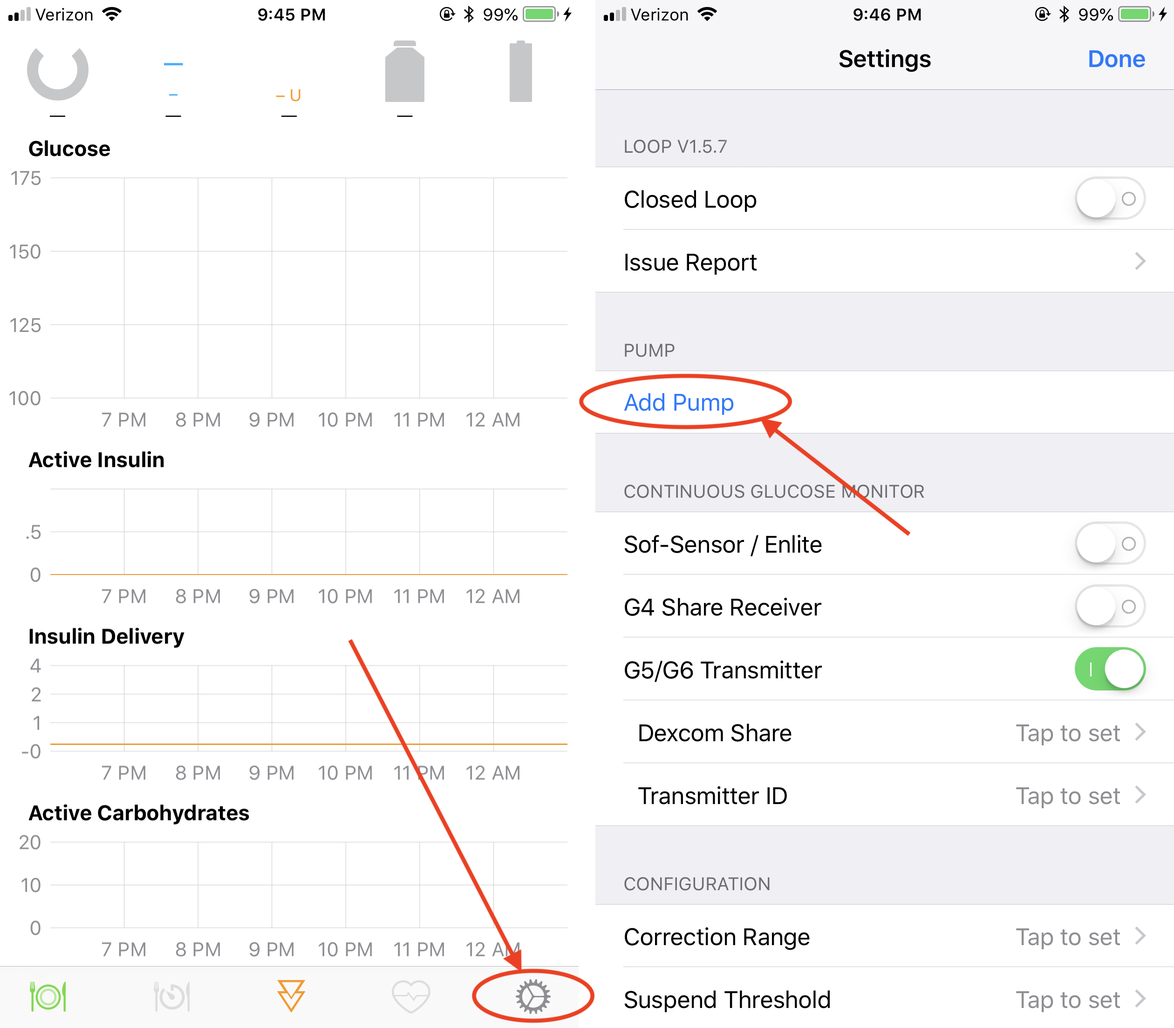
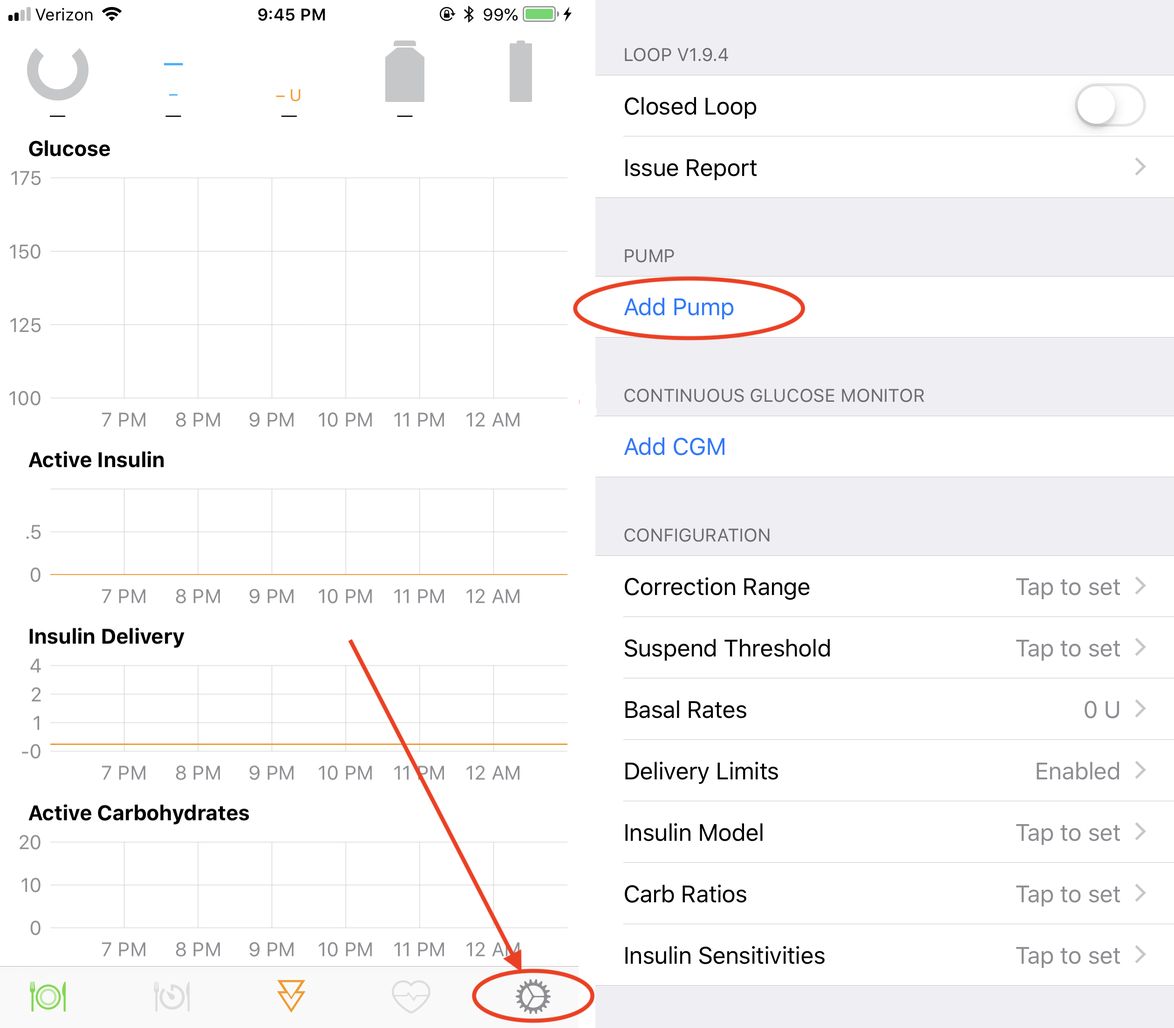
settings page updated

diff --git a/docs/operation/loop-settings/settings.md b/docs/operation/loop-settings/settings.md
@@ -2,13 +2,15 @@
 
 Now that you have the Loop app installed on your iPhone, we need to input the settings so that the Loop can work for you. 
 
-Normally, we would start by explaining the displays on an application, but your Loop won’t have much showing initially until we get some basic settings input.  So, let’s start by clicking on the Loop Settings button in the tool bar.  It looks like a little sprocket. On the settings screen that opens, click on Add Pump.
+Your Loop won’t have much showing initially until we get some basic settings input. Let’s start by clicking on the Loop Settings button in the tool bar at the bottom of your Loop app. It looks like a little sprocket. On the settings screen that opens, click on Add Pump.
 
 <p align="center">
 <img src="../img/loop_settings.png" width="450">
 </p></br>
 
-Helpful tip:  Before you begin the rest of the setup process, go to your pump menu and turn off Patterns under the basal menu settings. Make sure your Standard basal rate schedule is up-to-date and accurate.  Make sure your pump's temp basal type is set to units/hour (not percent).  Make sure your maximum basal rate and maximum bolus settings in the pump are reasonably set for your particular needs.
+!!! warning "Medtronic Users: MUST DO"
+    Before you begin the rest of the setup process, go to your Medtronic pump menu and:</br></br>
+    1. Turn off Patterns under the basal menu settings. </br></br>2. Make sure your basal rate schedule is up-to-date and accurate.</br></br>3. Set your pump's `Temp Basal Type` to `Absolute (U/hr)`. Do NOT use percentage. Your Loop will not run unless your temp basal type is set to units/hour.</br></br>4. Make sure your maximum basal rate and maximum bolus (those are particular settings in the pump) are reasonably set for your particular needs. For new Loop users, a maximum basal rate equal to approximately 2-4 times your highest scheduled basal rate is a good starting point as you learn Loop and dial in your other settings. You can adjust as your comfort and use of Loop develop.</br></br>
 
 ## Add Pump
 
@@ -16,16 +18,22 @@ You will now need to do a few simple steps:
 
 1. Make sure your RileyLink is turned on and nearby, then you will see a RileyLink listed in this area of the settings.  Actually, you will see a list of any RileyLinks that are in the nearby area. Slide on the toggle for your RileyLink.</br></br>
 2. Add your pump's region, color and serial number.</br></br>
-3. Click the Continue button to finish the addition of your pump.</br></br>
+3. Click the `Continue` button to finish the addition of your pump.</br></br>
 
 <p align="center">
 <img src="../img/add_pump.png" width="750">
 </p>
 
-Once your pump is setup, you will be finishing these steps:
+!!! info "For x23 and x54 Medtronic pump users only"
+    <table>
+    <th><p align="inline"><img src="../img/pump_broadcasts.png" width="550"></p></th>
+    <td>For x23 and x54 Medtronic pump users, there is a packet of information special to those pumps called MySentry messages. If you have never setup this part of the pump previously, you may see a screen, called "Pump Broadcasts", at this point in the setup process.</br></br>Follow the directions on the screen. They will require you to take some manual steps on your pump to "pair" it with your Loop app.</br></br>Basically, you will need to go to your pump's main menu, scroll down to Utilities, then Connect Devices, then Other Devices, turn that setting On, and then select Find Device. Once you do that, click on the `Continue` button in Loop app and the pairing will take place. This will allow those MySentry packets of information to flow to Loop app.</td>
+    </table>
+    
+Now that your pump is paired with Loop, you will be finishing these steps:
 
-1. Change your pump time using the Loop app (and reading all the info on that screen)</br></br>
-2. Import your pump's Standard basal rate schedule, and the maxium basal rate & maximum bolus (collectively called "delivery limits" in Loop)</br></br>
+1. Change your pump time using the Loop app (and read all the info on that screen)</br></br>
+2. Import your pump's basal rate schedule, maximum basal rate, and maximum bolus (maximums are collectively called "delivery limits" in Loop)</br></br>
 3. Select your pump's battery type (lithium or alakine)</br></br>
 4. Leave the Preferred Data Souce on Event History </br></br>
 
@@ -35,54 +43,60 @@ Once your pump is setup, you will be finishing these steps:
 <img src="../img/add_pump2.png" width="750">
 </p>
  
- Once you finish those steps, click on the Settings button in the upper left corner to take you back to the Loop's settings menu.  If you ever need to change the pump time or access the RileyLink menus, you will be clicking on the pump's image in Loop settings.
+ Once you finish those steps, click on the settings button in the upper left corner to take you back to the Loop's settings menu.  If you ever need to change the pump time or access the RileyLink menus, you will be clicking on the pump's image in Loop settings to come back to this area.
  
 ## CGM Selection
-Select one of the options from the menu:
+Now we need to add a CGM source so that Loop has BG data. The standard selections available will be:
 
-* Sof-Sensor/Enlite
-* G4 Share Receiver
-* G5/G6 Transmitter
+* Dexcom G6
+* Dexcom G5
+* Dexcom G4
+* Dexcom Share
 
-If you select the G5/G6 Transmitter, you will be prompted to enter the transmitter ID number.  Don't forget to update your transmitter ID when you change transmitters, otherwise Loop will not work offline.
+If you added a compatible Medtronic pump earlier in the setup process, then you will also see an option for the compatible Medtronic sensor that works with that same pump.
 
-If you are a Dexcom user, don't forget to enter your Dexcom Share information (this will be the same as your Nightscout Bridge username and password, too).  By entering your Dexcom Share account info, Loop will be able to fetch from the Dexcom servers via the internet when local BG readings from spying on the receiver/transmitter directly are not working.  The switch between local readings to server data pull will happen automatically when needed.  When Loop is using data from Dexcom servers, a small cloud will appear above the BG reading in Loop.
+* The Dexcom G5 and G6 options only require the addition of the active transmitter ID at a minimum. You do not have to add your Dexcom Share account credentials, but if you do, make sure they match what you originally entered into your Dexcom app on the iPhone. You will have to remember to update your transmitter ID in this section when you swap out your active transmitter. If you don't update your transmitter ID, your Loop will be forced to go to your Share account to get your CGM data and will not work without cell or wifi connection. When Loop is using data from Dexcom Share servers, a small cloud will appear above the BG reading in Loop and should tip you off that maybe you forgot to update your transmitter ID.
 
-!!!info ""
-    The Share account login is the same as what you used to login to your Dexcom app on your iPhone.  **Dexcom Share account is not always the same login info as your Dexcom Clarity account.**  For G4 users, the Share account is found in the account tab on the app.  For G5/G6 users, unfortunately, there is no information in the app displaying what your account name is.  The information is entered when you first login to the app and then is never displayed again, nor visible under any information screens.  If you have forgotten your G5/G6 account info, you can delete the Dexcom app and redownload it to try logging in again.  This will not cause a restart of any sensor sessions in progress.
+* Dexcom G4 users will need the Dexcom G4 Share2 app active on their iPhone and paired to their Dexcom G4 Share receiver.
+
+* The Dexcom Share selection is primarily for people who wish to test Loop function without a local CGM source. This selection will require login access to a Dexcom Share account with live data and active internet connection in order to work.
+
+For all selections, the Share account login is the same as what you used to login to the active Dexcom app on your iPhone. **Dexcom Share account is not always the same login info as your Dexcom Clarity account.** For G4 users, the Share account is found in the account tab on the app. For G5/G6 users, unfortunately, there is no information in the app displaying what your account name is. The information is entered when you first login to the app and then is never displayed again, nor visible under any information screens. If you have forgotten your G5/G6 account info, you can delete the Dexcom app and redownload it to try logging in again. This will not cause a restart of any sensor sessions in progress.
+    
+!!!info "Spike Users"
+    Users who are using Spike app to access other CGM types (or to avoid using the Dexcom app), you will need to follow the directions contained within the Spike app in order to build/modify Loop with Spike. Loop does not natively support Spike app and does not currently plan to. You are responsible for modifying or adapting Loop in order to use Spike so that it is an available option as a CGM source.
 
 ## Correction Range
-This is where you set your blood glucose range that you would like Loop to correct to. Correction Range is not necessarily what your target BG range that you have discussed with your endocrinologist; generally the doctor's range may be much wider.  For example, you may keep a correction target of 100-100 for Loop to aim to, but use a desired BG target range of 90-150 when discussing things with your endo about "time in range".
-
+This is where you set your blood glucose range that you would like Loop to correct to. Correction range is not necessarily the same target blood glucose range that you have discussed with your endocrinologist; generally the doctor's range may be much wider. For example, you may keep a correction target of 100-110 for Loop to aim to, but use a desired BG target range of 80-180 when discussing things with your endo about "time in range".
 
 <p align="center">
 <img src="../img/premeal_entry.jpg" width="250">
 </p>
 </br></br>
 
-Click the + in the upper right corner to add  correction BG range(s).  You can have multiple ranges based on time of day, but the first setting of the day needs to begin at midnight to be consistent with your Medtronic pump.
+Click the + in the upper right corner to add correction BG range(s). You can have multiple ranges based on time of day, but the first setting of the day needs to begin at midnight.
 
-Ranges will be entered in mg/dl or mmoL automatically based upon how your BG values appear your BG chart. By default they are set to mg/dl, however once BG values arrive in mmoL these settings can be entered in mmoL. If you are planning to use mmoL, be sure to wait to set your correction range until after you have started to receive BG values. If you do these in the wrong order, then your chart may have incorrect Y axis. If you come across this issue, you can also remove all of your target ranges and enter them again. Once you are receiving BG values in mmoL, you can add your correction range(s) in mmoL.
+Ranges will be entered in mg/dL or mmoL automatically, based upon how your blood glucose values are received. By default they are set to mg/dL, however once CGM values arrive in mmol/L these Loop settings can be entered in mmol/L. **If you are planning to use mmol/L, be sure to wait to set your correction range until after you have started to receive CGM values in Loop.** If you do these in the wrong order, then your chart may have incorrect units. If you come across this issue, you can also remove all of your target ranges and enter them again. Once you are receiving CGM values in mmol/L, you can add your correction range(s) in mmol/L.
 
-Correction ranges can be a single number, such as 100-100 mg/dL.  Generally, you don't want to keep correction ranges too wide otherwise Loop will be sluggish to correct.  Most users keep correction range no wider than about 0 to 20 mg/dl between the min and max values.
+Correction ranges can be a single number, such as 100-100 mg/dL.  Generally, you don't want to keep correction ranges too wide otherwise Loop will be sluggish to correct. Most users keep correction range no wider than about 0 to 30 mg/dL between the min and max values.
 
 ### Override Ranges
-Set the “override” ranges for temporary alternate correction ranges.  These override ranges will only be enacted when you specifically activate "Pre-Meal or “Workout Mode” using the buttons on the main Loop display or watchface.  While active, they replace the correction range for Loop's recommendations.  If the override ranges are not entered in this section, the buttons will remain grey and unusable on the main screen.
+Set the override ranges for temporary alternate correction ranges. These override ranges will only be enacted when you specifically activate pre-meal or workout mode using the buttons on the main Loop display or watchface. While active, they replace the correction range for Loop's recommendations. If the override ranges are not entered in this section, the buttons will remain grey and unusable on the main screen.
 
-**<font color="orange">Pre-Meal</font>**
-The pre-meal target is designed to be used to as an easy way to get a small amount of insulin delivered before a meal (similar to the "eating-soon" mode discussed in OpenAPS) in order to help control post-meal BG spikes.
+**<font color="black">Pre-Meal:</font>**
+The pre-meal override target is designed to be used to as an easy way to get a small amount of insulin delivered before a meal in order to help control post-meal blood glucose spikes.
 
-If your normal target is 100-100 and pre-meal target is 80-80 mg/dl, for example, Loop will give you an extra push to get you to the lower target number before the meal.  The pre-meal target, when activated by pressing on the icon, will stay active for one hour, until carbs are entered, or until it is manually cancelled...whichever comes first.
+If your normal target is 100-100 mg/dL and pre-meal target is 80-80 mg/dL, for example, Loop will give you an extra push to get you to the lower target number before the meal. This early insulin brings you into the meal with a mini-prebolus. The pre-meal target, when activated by pressing on the icon, will stay active for one hour, until carbs are entered, or until it is manually cancelled...whichever comes first.
 
-Loop will adjust any insulin bolus as needed based on the insulin provided during this pre-meal time.
+Loop will adjust any insulin bolus as needed based on the extra insulin provided during this pre-meal time.
 
-**<font color="orange">Workout Mode</font>**
-Workout Mode override targets are designed to temporarily set targets higher in anticipation of exercise or other activities which tend to make the Looper more insulin sensitive or need less insulin.  By setting a higher temp target ahead of activity, Loop will recommend less basal rate(s) than normally scheduled in order to to bring BGs up to the higher target.
+**<font color="black">Workout Mode:</font>**
+Workout override target is designed to temporarily set your target higher in anticipation of exercise or other activities which tend to make the user more insulin sensitive or need less insulin. By setting a higher temp target ahead of activity, Loop will recommend less basal rate(s) than normally scheduled in order to to bring blood glucose up to the higher target.
 
-The success of this strategy will be dependent on how far in advance of activity the temp target is set.  Generally, users set the target approximately 1-2 hours in advance of planned activities...but the optimal timing will depend on the activity, duration, and intensity.  Additionally, any insulin on board from recent boluses may overwhelm the Loop's ability to counteract exercise-induced lows through lower temp basals alone.
+The success of this strategy will be dependent on how far in advance of activity the override target is set. Generally, users set the target approximately 1-2 hours in advance of planned activities, but the optimal timing will depend on the activity, duration, and intensity.  Additionally, any insulin on board from recent boluses may overwhelm the Loop's ability to counteract exercise-induced lows through lower temp basals alone. Please see LoopTips.org for additional information about [exercise and Loop](https://kdisimone.github.io/looptips/how-to/exercise/).
 
 ## Suspend Threshold
-Suspend Threshold is a required data entry for successful configuration of Loop. **<font color="blue">Your Loop will not turn green without setting this value.</font>**  This value affects both bolus and basal recommendations by Loop.
+The suspend threshold must be set up for successful configuration of Loop. **Your Loop will not turn green without setting this value.**  This value affects both bolus and basal recommendations by Loop.
 
 #### Bolus
 
@@ -90,71 +104,72 @@ Suspend Threshold is a required data entry for successful configuration of Loop.
 
 #### Basal
 
-* If your current or forecasted BG is below the suspend threshold, Loop will always recommend a temp basal rate of 0 u/hr.
+* If your current or any point on your predicted BG curve is below the suspend threshold, Loop will always recommend a temporary basal rate of 0 U/hr.
+
+Reasonable settings for suspend threshold will depend on user preference, but recommended not set lower than 65 mg/dL.
 
 ## Basal Rates
 
 Your basal rates have already been initially populated from the pump's standard basal schedule as part of your initial setup, above.  Only one basal schedule may be set in each Loop app.  If you need to edit your basal schedule, simply make the edits as needed and then click on `Save to Pump...` button.  As a safety precaution, Loop will not allow you to only save the edits to the Loop app alone...you must successfully save the changes back to the pump to ensure Loop and the pump are in sync.  
 
 !!!info ""
-    If you make any basal edits and simply use the `Settings` button to go back to the menu without successfully saving to pump, the changes you made will not be saved in Loop app.  Loop v1.9 makes saving to pump a mandatory step to successfully editing basal rates.
+    If you make any basal edits and simply use the `Settings` button to go back to the menu without successfully saving to pump, the changes you made will not be saved in Loop app.  Loop makes saving to pump a mandatory step to successfully editing basal rates.
 
 ## Delivery Limits
 
-The maximum basal rate and maximum bolus settings are collectively refered to as Delivery Limits.  Your Loop will read these from the pump as part of adding a new pump to Loop.  For safety, similar to basal schedule, you must keep these values the same on both the Loop app and within the pump settings.  If you edit these settings in Loop app, always use the `Save to Pump...` button similar to the basal rate edits discussed above.
+The maximum basal rate and maximum bolus settings are collectively refered to as Delivery Limits. Your Loop will read these from the pump as part of adding a Medtronic pump to Loop. For safety, similar to basal schedule, you must keep these values the same on both the Loop app and within the pump settings. If you edit these settings in Loop app, always use the `Save to Pump...` button similar to the basal rate edits discussed above.
 
 #### **Maximum Basal Rate**
-Maximum basal rate is the maximum temporary basal rate that the Loop is allowed to enact to meet your correction range.  See the Operation section discussion for [Close Loop](/operation/loop/close-loop.md) for some suggestions regarding appropriate Maximum Basal Rate.
+Maximum basal rate will cap the the maximum temporary basal rate that the Loop is allowed to enact to meet your correction range. When you are first beginning to use Loop, it is wise to start conservative (low) in setting your maximum basal rate. If your settings are incorrect in other areas (basal rates, insulin sensitivity, carb ratio, etc), you may need time to identify where settings need to be adjusted. This process is easier if Loop is given less latitude to set high basal rates. Gradually increase your maximum basal rate as your comfort and confidence in Loop increases. Typically, experienced Loop users set their maximum basal rate around 3-4 times their highest scheduled basal rate. If you need help with your settings adjustment, head over to LoopTips for some [initial settings help](https://kdisimone.github.io/looptips/settings/settings/)
 
 #### **Maximum Bolus**
-Enter your desired single bolus maximum here.  For safety, don't set a maximum bolus limit any higher than your typical large meal bolus.
+Enter your desired single bolus maximum here. For safety, don't set a maximum bolus limit any higher than your typical large meal bolus.
 
 ## Insulin Model
-There are four Insulin Models to choose from; Walsh, Rapid-Acting Adults, Rapid-Acting Children, and Fiasp.  If you want to read the nitty-gritty discussion that went into the development of these new curves, you can see that in GitHub [here](https://github.com/LoopKit/Loop/issues/388#issuecomment-317938473).
+There are four insulin models to choose from; Walsh, Rapid-Acting Adults, Rapid-Acting Children, and Fiasp. If you want to read the nitty-gritty discussion that went into the development of the Rapid-Acting and Fiasp curves (collectively called "exponential insulin models"), you can see that in GitHub [here](https://github.com/LoopKit/Loop/issues/388#issuecomment-317938473).
 
-You can click on each model and see what each model's insulin activity curve looks like.  If you select the Walsh model, and adjust the insulin action duration (DIA default is 6 hours), the curve will be adjusted accordingly based on your selection.
+We highly recommend selecting one of the exponential insulin models (aka not the Walsh). A common new Loop user error is to select Walsh model in order to easily shorten their insulin duration (DIA) to one like they used prior to Looping. This almost invariably leads to insulin stacking. If you would like to read more about why the duration of insulin action is important in Loop vs how you've traditionally used it, please click [here](https://seemycgm.com/2017/08/09/why-dia-matters/) to read a blog post about the subject. In summary, choosing Walsh curve just to shorten your DIA will lead to insulin stacking and less than desired bolusing recommendations.
+
+You can click on each model and see what each model's insulin activity curve looks like, active one selected in blue. 
 
 <p align="center">
 <img src="../img/models.jpg" width="350">
 </p>
 
-The differences between the new (Rapid-Acting and Fiasp) models have to do with the timing of the Peak Activity of the insulin.  Currently, all the models are defaulted [in the code]( to an insulin duration of 360 minutes...but the peak activity of the various curves differs:
+The differences between the three exponential models (two Rapid-Acting and Fiasp) models has to do with the timing of the peak insulin activity timing. Not surprising, since Fiasp is marketed as the "faster acting" insulin. Currently all the exponential models are defaulted to an insulin duration of 6 hours, but the peak activity of the curves differs:
 
 * Rapid-acting adult curve peaks at 75 minutes
 * Rapid-acting child curve peaks at 65 minutes
 * Fiasp peaks curve peaks at 55 minutes
 
-As the peak time decreases, the Loop will expect a quicker insulin impact on BG AND the tail of the insulin dose will be slightly less agressive compared to a curve with a later peak time.  In other words, Fiasp will be more powerful soon after a bolus and less powerful 5 hours later than an equal amount of insulin modeled using the other models.
-
-The Walsh model's insulin duration can be set by the user from within the app.  The peak time of the Walsh curve is 100 min at a DIA of 4 hours.  As user adjusts DIA, the peak time will be dynamically adjusted.
-
-
 ## Carb Ratios
-Click the + in the upper right to add carb ratios for various times of day. Loop works best if you have tested and optimized your carb ratio settings for accuracy.
+Click the + in the upper right to add carb ratios for various times of day. Loop works best if you have [tested and optimized](https://kdisimone.github.io/looptips/settings/settings/) your carb ratio settings for accuracy.
 
 !!!info "Beware of other apps writing carbs to Health app"
-    If you are using a third-party app (such as Spike or MyFitness) that can write carbohydrates to the phone's Health app, you will need to edit the permissions to make sure Loop doesn't double carb entries.  You should disable the third-party app's permissions in Health so that it can only `read` and not `write`.  See [Carb Entries with Third Party apps](/operation/features/carbs.md#third-party-apps) for more information about this setting.
+    If you are using a third-party app (such as Spike or MyFitness) that can write carbohydrates to the phone's Health app, you will need to edit the permissions to make sure Loop doesn't double carb entries.  You should disable the third-party app's permissions in Health so that they can only `read` and not `write`.  See [Carb Entries with Third Party apps](https://loopkit.github.io/loopdocs/operation/features/carbs/#third-party-apps) for more information about this setting.
 
 ## Insulin Sensitivities
-Click the + in the upper right to add insulin sensitivities for various times of day. Loop works best if you have tested and optimized your ISF settings for accuracy.  Insulin sensitivities can change for many reasons including waiting too long to change your infusion set.  Loop will not auto-detect changes in ISF.
+Click the + in the upper right to add insulin sensitivities for various times of day. Loop works best if you have [tested and optimized](https://kdisimone.github.io/looptips/settings/settings/) your ISF settings for accuracy. Insulin sensitivities can change for many reasons including waiting too long to change your infusion set. Loop will not auto-detect changes in ISF.
+
+Incorrectly set ISF is the most common cause of roller coaster BGs for new Loop users. You will need to raise (increase) your ISF value/number to help smooth a roller coaster BG trend. You can read about that topic more over in LoopTips [here](https://kdisimone.github.io/looptips/settings/settings/#3rd-insulin-sensitivity-factor). 
 
 ## Closed Loop
 
-The Closed Loop switch controls the Loop operation mode for the application. This operation mode determines whether Loop automatically enacts recommendations (i.e., sets temp basals) to the insulin pump.  
+The Closed Loop switch controls whether Loop automatically enacts its recommended temporary basal adjustments (closed loop operation) or whether you have to manually tap to enact the recommendations (open loop mode).  
 
 <p align="center">
 <img src="../img/open_loop.png" width="400">
 </p> 
 
-When the Closed Loop switch is in the (Off&nbsp;&nbsp;&nbsp;&nbsp;&nbsp;   ) position, Loop WILL NOT enact recommended temp basals automatically.  Instead, it will display Recommended Temp Basals on the main status display, just above the Glucose graph.  This is called **<font color="orange">Open Loop</font>**, and is a good way to understand how Loop will function, and what type of recommendations it would make.  If you click on the recommended temp basal line while in Open Loop mode, Loop will implement the temp basal.
+When the Closed Loop switch is in the (Off&nbsp;&nbsp;&nbsp;&nbsp;&nbsp;   ) position, Loop WILL NOT enact recommended temp basals automatically. Instead, Loop will display recommended temp basals on the main status display, just above the blood glucose graph.  This is called **open loop**, and is a good way to understand how Loop will function, and what type of recommendations it would make. If you click on the recommended temp basal line while in open loop mode, Loop will implement the temp basal.
 
 <p align="center">
 <img src="../img/closed_loop.png" width="400">
 </p> 
 
-When the Closed Loop switch is in the (&nbsp;&nbsp;&nbsp;&nbsp;&nbsp;   On) position, Loop WILL automatically enact recommended temp basals on the configured insulin pump. This is known as **<font color="orange">Closed Loop</font>**.  Typically, Loop will show the recommended temp basal just above the Glucose graph prior to automatically enacting it.  It may take a minute or so for the Loop to enact the recommended basal.  Once the temp basal has been enacted successfully on the pump, the recommended temp basal will disappear from the screen and the new temp basal will be represented in the insulin delivery graphics.
+When the Closed Loop switch is in the (&nbsp;&nbsp;&nbsp;&nbsp;&nbsp;   On) position, Loop WILL automatically enact recommended temp basals on the configured insulin pump. This is known as **closed loop**. Typically, Loop will show the recommended temp basal just above the blood glucose graph prior to automatically enacting it. It may take a minute or so for the Loop to enact the recommended basal. Once the temp basal has been enacted successfully on the pump, the recommended temp basal will disappear from the screen and the new temp basal rate will be represented in the insulin delivery graphs.
 
 ## Issue Report
-If you run into problems or errors with your Loop, the Issue Report can be used to help identify where the problem is occurring.  The Issue Report is automatically generated and you can share it via email.  Frequently, if you go to Gitter or Facebook for help with a technical problem, an Issue Report will provide insight to what the potential problem is.
+If you run into problems or errors with your Loop, an Issue Report can be used to help identify where the problem is occurring. The Issue Report is automatically generated and you can share it via email. Frequently, if you go to Gitter or Facebook for help with a technical problem, an Issue Report will provide insight to what the potential problem is.
 
 

diff --git a/docs/setup/FAQs.md b/docs/setup/FAQs.md
@@ -107,7 +107,9 @@ NOOOO...you really need to figure this out yourself. This is an automated insuli
 
 ## What if I lose my phone or RileyLink?
 
-You go back to old school pump use until you buy a [new iPhone and can rebuild](https://loopkit.github.io/loopdocs/setup/build/new-iphone/) or get a new RileyLink.
+For Medtronic users, you simply go back to old school pump use until you buy a [new iPhone and can rebuild](https://loopkit.github.io/loopdocs/setup/build/new-iphone/) or get a new RileyLink.
+
+For pod users, your pod will finish any currently running temporary basal rate and then revert back to your scheduled basal rate. Without a phone or RileyLink however, you will not be able to affect any pod use; no basal change, suspend, or bolus. You will need to remove the Loop pod and put on a new pod paired with your PDM until you can get a new RileyLink and/or phone. If you only have lost the RileyLink (not the phone) and have a backup RileyLink, you can simply connect to the new RileyLink on the same Loop app and it will work with the existing pod session.
 
 ## What about other pumps? When will they Loop?
 
@@ -120,6 +122,4 @@ While technically possible, you can have multiple Loop apps built onto the same 
 ## Will I be able to Loop on a plane? or in the mountains?
 
 Yes. Loop does not require internet or cell coverage to work. So long as the Looper has Bluetooth turned on on the iPhone (or iPod touch), then the Dexcom and RileyLink will still be able to do their work with Loop and your pump/pod.
-
-## 
 
